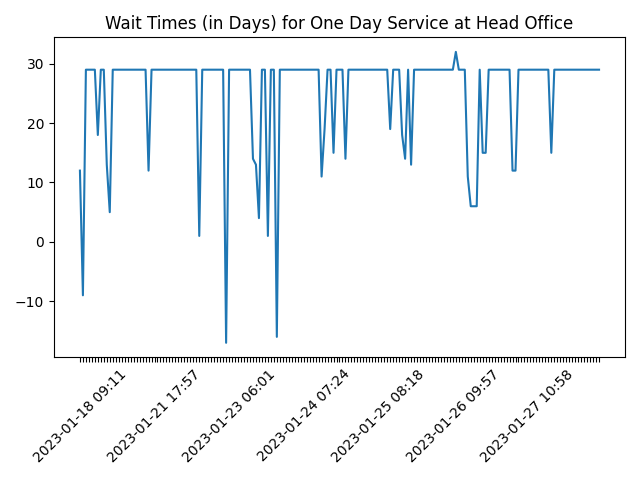
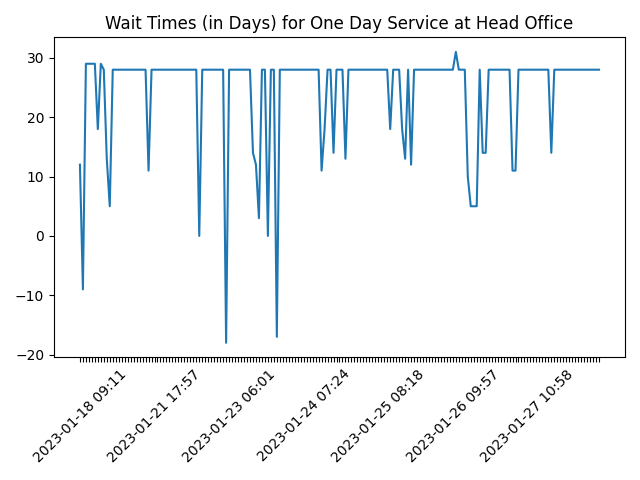
Updated data Fri Feb 10 06:28:25 UTC 2023

diff --git a/README.md b/README.md
@@ -1,5 +1,5 @@
 # Passport Application Reservation System - Availability Report
 
-*As of February 10, 2023 (06:16 AM)*
+*As of February 10, 2023 (11:58 AM)*
 
 Data Source: [Passport Application Reservation System](https://eservices.immigration.gov.lk:8443/appointment/pages/reservationApplication.xhtml)

diff --git a/summary.md b/summary.md
@@ -2,7 +2,7 @@
 
 Of the data from the Passport Application Reservation System of the Sri Lanka Department of Immigration and Emigration.
 
-*As of 2023-02-10 06:16:42*
+*As of 2023-02-10 11:58:23*
 
 ![Wait Time Chart](summary.wait_time_chart.png)
 
